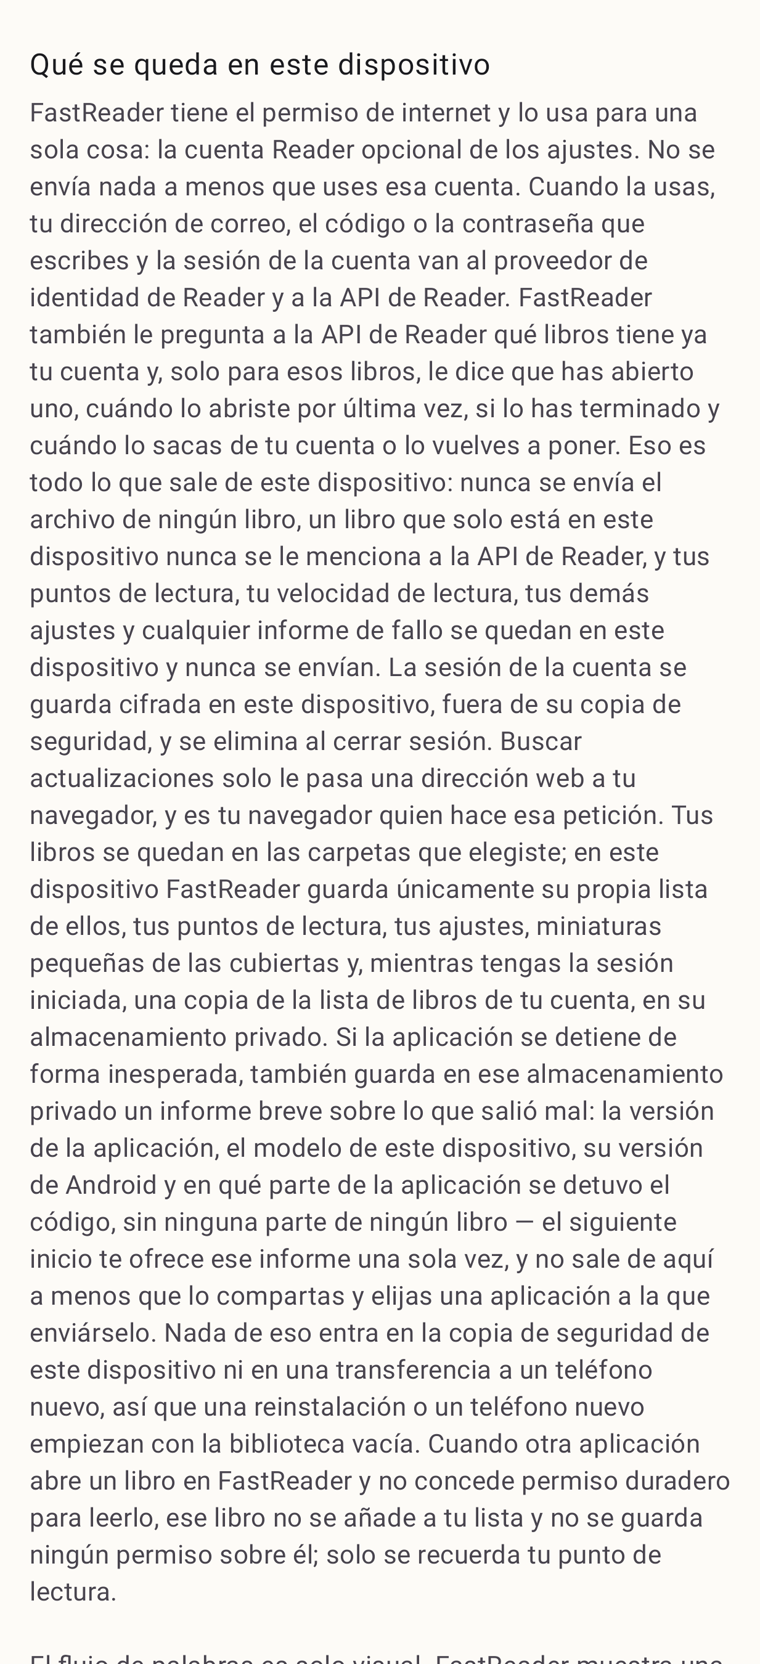
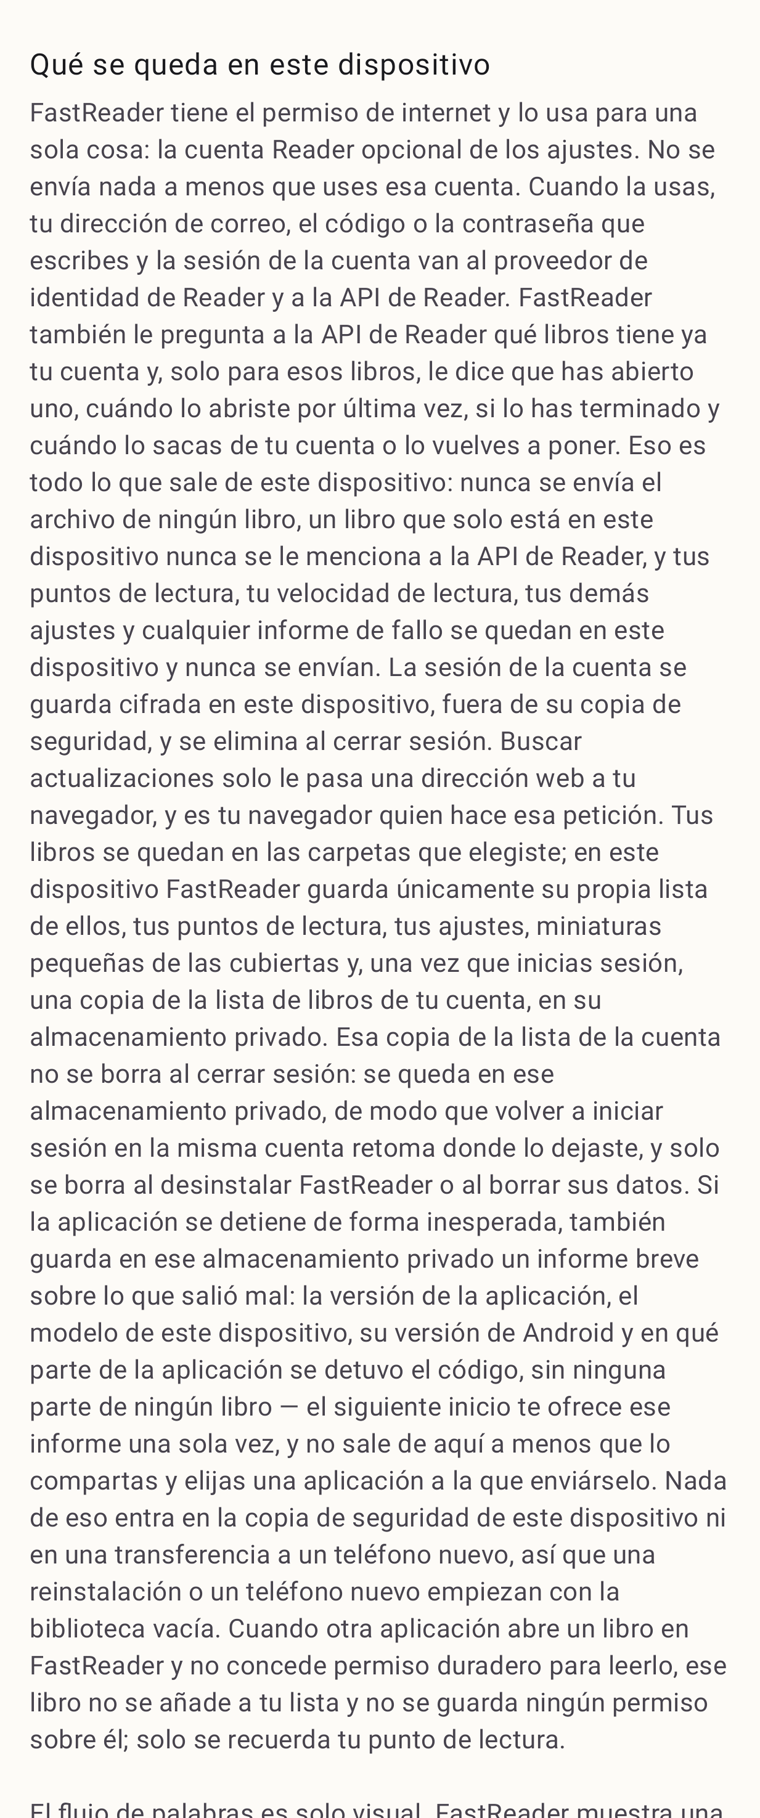
Say the account book list survives sign-out; prove row 8 locally (review R1)
Review round 1 on #127, both findings, one batch. B1 was the exact failure this
leaf exists to prevent, caught in this leaf's own text.

B1 — the statement over-claimed. It said the device keeps, "while you are
signed in", a copy of the account's book list. That is false and deliberately
so: `AccountSyncEngine.signOut` is D4 — stop reading the store, keep the file,
delete nothing — and signing in as a different user only empties the other
account's outbox (`discardOtherAccountQueues` re-saves the same document, and
the test asserts "user-1's rows are left alone"). So
`filesDir/account-library/account-<sha256>.json` survives sign-out
indefinitely. Two sentences after "the session ... is removed when you sign
out", a temporal clause there reads as a retention limit the code does not
honour.

Fixed by stating the retention rather than implying its absence, in all four
held-equal copies and in the Spanish twin by hand:

  That copy of the account's list is not deleted when you sign out: it stays in
  that private storage, so signing in to the same account again picks up where
  it left off, and only uninstalling FastReader or clearing its data removes it.

The behaviour is unchanged — D4 stands. `PrivacyStatementTest` now asserts the
over-claiming phrase is absent as a third retired promise, so it cannot come
back, and its KDoc records why. The claim list is sixteen.

B2 — row 8 cited `PENDING OWNER TEST — step 3`, which asks the owner to read a
[…]

Changed region(s): [[0.0303, 0.0312, 0.9684, 1.0], [0.8474, 0.9688, 0.8776, 1.0], [0.7566, 0.9688, 0.7868, 1.0]]

diff --git a/app/src/test/java/com/cedagova/fastreader/app/PrivacyStatementTest.kt b/app/src/test/java/com/cedagova/fastreader/app/PrivacyStatementTest.kt
@@ -66,12 +66,22 @@ class PrivacyStatementTest {
      * never leave. The import, download and position sentences belong to later
      * increments and are deliberately not here yet.
      *
+     * A third phrase is asserted absent although it never shipped: "while you
+     * are signed in, a copy of your account's own book list". The first draft
+     * of #115 said that, and it was false — `AccountSyncEngine.signOut` keeps
+     * the account document (D4: "stop reading the store, keep the file, delete
+     * nothing"), and signing in as a different user clears only that account's
+     * outbox. Sitting two sentences after "the session … is removed when you
+     * sign out", a temporal clause there reads as a retention limit the code
+     * does not honour. The shipped sentence states the retention instead, and
+     * this assertion keeps the over-claim from coming back.
+     *
      * Nothing holds the Spanish copy of the statement to this one — lint fails
      * a *missing* translation, not a stale one — so a change here is a hand
      * edit of `values-es/strings.xml` too.
      */
     @Test
-    fun `the statement still makes the fourteen claims the build backs up`() {
+    fun `the statement still makes the sixteen claims the build backs up`() {
         val statement = oneLine(shownInApp())
 
         listOf(
@@ -85,7 +95,9 @@ class PrivacyStatementTest {
             "kept encrypted on this device, outside its backup, and is removed when you sign out",
             "hands a web address to your browser",
             "your books stay in the folders you chose",
-            "a copy of your account's own book list, in its private storage",
+            "once you sign in, a copy of your account's own book list, in its private storage",
+            "that copy of the account's list is not deleted when you sign out",
+            "only uninstalling FastReader or clearing its data removes it",
             "is included in this device's backup or in a transfer to a new phone",
             "it goes nowhere unless you share it and pick an app to send it to",
             "not added to your list and no permission to it is kept",
@@ -99,7 +111,12 @@ class PrivacyStatementTest {
             // Retired with #113 and #114: the books half is no longer true.
             "your books, your reading positions, your settings and any crash report " +
                 "stay on this device and are never sent",
-            // The narrower half of the same retired sentence, in case only its
+            // Never shipped, and must never ship: the account book list is NOT
+            // removed on sign-out (AccountSyncEngine.signOut keeps the file, D4),
+            // so a temporal clause here would over-claim privacy — the exact
+            // failure AD-27 forbids.
+            "while you are signed in, a copy of your account's own book list",
+            // The narrower half of the retired v1.6.0 sentence, in case only its
             // opening is trimmed rather than the whole clause rewritten.
             "and nothing else does",
         ).forEach { retired ->

diff --git a/docs/privacy-statement.md b/docs/privacy-statement.md
@@ -60,11 +60,14 @@ its backup, and is removed when you sign out. Check for updates only hands
 a web address to your browser, and your browser makes that request. Your
 books stay in the folders you chose; on this device FastReader keeps only
 its own list of them, your reading positions, your settings, small cover
-thumbnails and, while you are signed in, a copy of your account's own book
-list, in its private storage. If the app stops unexpectedly it also keeps
-one short report about what went wrong in that private storage: the app
-version, this device's model, its Android version and where in the code it
-stopped, with no part of any book in it — the next launch offers that
+thumbnails and, once you sign in, a copy of your account's own book list,
+in its private storage. That copy of the account's list is not deleted when
+you sign out: it stays in that private storage, so signing in to the same
+account again picks up where it left off, and only uninstalling FastReader
+or clearing its data removes it. If the app stops unexpectedly it also
+keeps one short report about what went wrong in that private storage: the
+app version, this device's model, its Android version and where in the code
+it stopped, with no part of any book in it — the next launch offers that
 report to you once, and it goes nowhere unless you share it and pick an app
 to send it to. None of that is included in this device's backup or in a
 transfer to a new phone, so a reinstall or a new phone starts with an empty
@@ -76,7 +79,7 @@ permission to it is kept; only your place in it is remembered.
 ## What each sentence rests on
 
 Every sentence is either a manifest declaration or something the app is
-observed doing. Nothing here is an intention. The eleven rows are the eleven
+observed doing. Nothing here is an intention. The twelve rows are the twelve
 sentences of the block above, in order.
 
 | # | Sentence | What makes it true | The test or evidence that checks it |
@@ -88,10 +91,11 @@ sentences of the block above, in order.
 | 5 | That is all that leaves this device: no book file is ever sent, a book that is only on this device is never named to the Reader API, and your reading positions, your reading speed, your other settings and any crash report stay on this device and are never sent. | No code path uploads a book: `:reader-library` has no upload operation and no multipart body, and increment 001 adds no import or download. The `upsert` payload carries `status` and `last_opened_at` and nothing else — no title, no author, no checksum, no path. No `profile`, `settings`, `note` or `bookmark` envelope is constructed anywhere, and no `reading_progress` mutation is sent: positions are read *from* the stream into the account document and never written back. The crash store is untouched by the account code. | `AccountSyncEngineTest.nothing but library_item mutations is ever produced` (resource type, whole batch); `ReaderLibraryOperations` declares the five operations exhaustively and `ReaderLibraryContractTest` checks each against the pinned document; `reader-library/contracts/PINNED.md` records the identity. Reviewing the real backend records is deferred: `PENDING OWNER TEST — step 13 of the owner list` for "only `library_item` mutations from the `reader-android` client" and `PENDING OWNER TEST — step 14 of the owner list` for the recorded field shapes. |
 | 6 | The account session is kept encrypted on this device, outside its backup, and is removed when you sign out. | The library stores the session as one file, `no_backup/reader-auth/session.bin`, encrypted with an AES-256-GCM key generated in the Android Keystore; the file is under the platform's no-backup directory, and FastReader's nine-domain extraction rules exclude it a second time. Sign-out clears the store before telling the provider, so a provider failure never leaves the device signed in (`reader-auth/CONTRACT.md`). | `FileSessionStoreTest` pins the file, the encryption and the clear; `ReaderAccountManifestTest` pins the rules. Emulator, signed in: the `docs/evidence/46/` backup procedure moves zero bytes on both transports, the session survives `am force-stop` and `adb reboot`, and after sign-out `no_backup/reader-auth/` holds no `session.bin` (`docs/evidence/100/`). |
 | 7 | Check for updates only hands a web address to your browser, and your browser makes that request. | `SettingsRoute` starts `ACTION_VIEW` for `https://github.com/cedagova/fastReader/releases`; the app makes no request of its own for it — the only HTTP clients in the app are the two libraries', and nothing in Settings calls either for this. | Emulator: tapping the button starts `ACTION_VIEW` for that URL and the browser takes the foreground from FastReader (`docs/evidence/46/update-handoff-browser-phone-mid-api36.png`). |
-| 8 | Your books stay in the folders you chose; on this device FastReader keeps only its own list of them, your reading positions, your settings, small cover thumbnails and, while you are signed in, a copy of your account's own book list, in its private storage. | Books are read through SAF document URIs and no code path copies one: `CatalogIngestor` streams for metadata and a cover, and the reader streams the text. `LibraryGraph` wires `filesDir/catalog/catalog.json` (books, positions and settings) and `filesDir/covers/`, and `SharedPreferencesThemeMirror` keeps a one-key theme copy in `shared_prefs/launch-theme.xml`. Since #113 there is one more private file: `filesDir/account-library/account-<sha256 of the user id>.json`, the account's rows, cursor and outbox — one per account, named after the digest of the id so the id itself is not legible in a directory listing. The account session is the separate encrypted file named two rows up, under `no_backup/`. No database, nothing on external storage. | `AccountLibraryStoreTest` pins the file name, the atomic write and the damaged-file quarantine; `FileAccountLibraryStores` is the only writer. Emulator, `run-as com.cedagova.fastreader ls -R .` after adding two books and reading one: `files/catalog/catalog.json`, two files in `files/covers/`, `shared_prefs/launch-theme.xml`, and the platform's own zero-byte `files/profileInstalled` marker; signed out there is no `files/account-library/` at all (`docs/evidence/106/leaf-114-device-run-phone-mid-api36.txt`). The signed-in directory listing is `PENDING OWNER TEST — step 3 of the owner list`. |
-| 9 | If the app stops unexpectedly it keeps one short report in that private storage; the next launch offers it once, and it goes nowhere unless you share it. | `CrashReportStore` writes a single `files/crash/report.txt` under `filesDir` — one slot, overwritten rather than appended — and the handler re-throws instead of swallowing. `CrashShare` builds an `ACTION_SEND` chooser only from the reader's own tap on "Share report"; sharing and declining both delete the file, and the offer is shown once either way. `CrashReport` redacts throwable messages, so the text carries the app version, device model, Android version and stack frames and no book title, path or file name (REQ-207, AD-14). | Emulator, induced crash whose message deliberately carried a book title, an author and a full path: the offer appeared once (`docs/evidence/54/01-offer-on-next-launch-phone-mid-api36.png`), the share sheet's own preview held none of them (`docs/evidence/54/shared-report-phone-mid-api36.txt`), and after either answer `run-as com.cedagova.fastreader ls files/crash` was empty with no dialog on the next cold launch (`docs/evidence/54/03-not-offered-again-after-declining-phone-mid-api36.png`). |
-| 10 | None of that is included in this device's backup or in a transfer to a new phone, so a reinstall or a new phone starts with an empty library. | `android:allowBackup="false"` plus `res/xml/data_extraction_rules.xml`, which excludes every domain — `root`, `file`, `database`, `sharedpref`, `external` and their `device_*` twins — from both `<cloud-backup>` and `<device-transfer>` (AD-11). The account document is under `filesDir`, so the `file` and `device_file` exclusions cover it with everything else; the session is under `no_backup/` and excluded twice. The attribute alone is not enough: Android 12+ device transfer ignores it. | `ReaderAccountManifestTest` pins all nine domains. Emulator, on the same seeded library: the cloud transport answers "Backup is not allowed" and the device-transfer transport takes zero bytes, where the pre-change build handed both 9,728 bytes containing `catalog.json` and the covers (`docs/evidence/46/backup-run-phone-mid-api36.txt`). Reinstall: the empty-library state with a fresh `catalog.json` whose `books` array is empty (`docs/evidence/46/reinstall-empty-library-phone-mid-api36.png`). |
-| 11 | When another app opens a book and does not give lasting permission, the book is not added to your list and no permission to it is kept; only your place in it is remembered. | `ExternalOpenController.resolveIdentity` adds a library row only when `takePersistableUriPermission` succeeds, and releases a grant that persisted but produced no row; the reading position is stored under the book's whole-file SHA-256, like every other position (AD-9), so it survives without anything else about the book surviving. Such a book has no account counterpart either, so it sends nothing (row 4). | Emulator, three grants from this package at one moment: the two books handed over by the Files app are `persistable=0x0 persisted=0x0`, the same file taken through FastReader's own picker is `persistable=0x3 persisted=0x1` (`docs/evidence/44/uri-grants-phone-mid-api36.txt`). After reading a handed-over book to 33 % and closing it, `catalog.json` holds `"books":[]` and one `readingStates` entry, and the library screen is empty (`docs/evidence/44/library-has-no-row-after-closing-phone-mid-api36.png`). |
+| 8 | Your books stay in the folders you chose; on this device FastReader keeps only its own list of them, your reading positions, your settings, small cover thumbnails and, once you sign in, a copy of your account's own book list, in its private storage. | Books are read through SAF document URIs and no code path copies one: `CatalogIngestor` streams for metadata and a cover, and the reader streams the text. `LibraryGraph` wires `filesDir/catalog/catalog.json` (books, positions and settings) and `filesDir/covers/`, and `SharedPreferencesThemeMirror` keeps a one-key theme copy in `shared_prefs/launch-theme.xml`. Since #113 there is one more private file: `filesDir/account-library/account-<sha256 of the user id>.json`, the account's rows, cursor and outbox — one per account, named after the digest of the id so the id itself is not legible in a directory listing. The account session is the separate encrypted file named two rows up, under `no_backup/`. No database, nothing on external storage. | `AccountLibraryStoreTest` pins that file: its name (`account-` + the SHA-256 of the user id + `.json`), the atomic write through a `.tmp` sibling, and the quarantine of a damaged document — and `FileAccountLibraryStores` is the only writer, so the location and naming are proven here without a device. Emulator, `run-as com.cedagova.fastreader ls -R .` after adding two books and reading one: `files/catalog/catalog.json`, two files in `files/covers/`, `shared_prefs/launch-theme.xml`, and the platform's own zero-byte `files/profileInstalled` marker (`docs/evidence/106/leaf-114-device-run-phone-mid-api36.txt`). |
+| 9 | That copy of the account's list is not deleted when you sign out: it stays in that private storage, so signing in to the same account again picks up where it left off, and only uninstalling FastReader or clearing its data removes it. | This is D4, and it is deliberate. `AccountSyncEngine.signOut` stops reading the store and **keeps the file** — the queue is held for the next sign-in to the same account — so the rows and cursor survive sign-out indefinitely. Signing in as a *different* user does not clear it either: `discardOtherAccountQueues` empties the other account's `outbox` and re-saves the same document, leaving its book list alone. Nothing in the app deletes `filesDir/account-library/`; only uninstalling or clearing the app's data does, which is the platform's own behaviour for `filesDir`. | `AccountSyncEngineTest.signing out keeps the store and takes the account rows off the shelf` asserts `sign-out deletes nothing` on the file itself and that the document still holds the account's books; `a different account starts empty and discards the previous account's held queue` asserts the other account's outbox is emptied *and* that "user-1's rows are left alone". The sentence states exactly that retention rather than implying its absence — the first draft of this statement said "while you are signed in", which the code does not honour, and `PrivacyStatementTest` now asserts that phrase is absent. |
+| 10 | If the app stops unexpectedly it keeps one short report in that private storage; the next launch offers it once, and it goes nowhere unless you share it. | `CrashReportStore` writes a single `files/crash/report.txt` under `filesDir` — one slot, overwritten rather than appended — and the handler re-throws instead of swallowing. `CrashShare` builds an `ACTION_SEND` chooser only from the reader's own tap on "Share report"; sharing and declining both delete the file, and the offer is shown once either way. `CrashReport` redacts throwable messages, so the text carries the app version, device model, Android version and stack frames and no book title, path or file name (REQ-207, AD-14). | Emulator, induced crash whose message deliberately carried a book title, an author and a full path: the offer appeared once (`docs/evidence/54/01-offer-on-next-launch-phone-mid-api36.png`), the share sheet's own preview held none of them (`docs/evidence/54/shared-report-phone-mid-api36.txt`), and after either answer `run-as com.cedagova.fastreader ls files/crash` was empty with no dialog on the next cold launch (`docs/evidence/54/03-not-offered-again-after-declining-phone-mid-api36.png`). |
+| 11 | None of that is included in this device's backup or in a transfer to a new phone, so a reinstall or a new phone starts with an empty library. | `android:allowBackup="false"` plus `res/xml/data_extraction_rules.xml`, which excludes every domain — `root`, `file`, `database`, `sharedpref`, `external` and their `device_*` twins — from both `<cloud-backup>` and `<device-transfer>` (AD-11). The account document is under `filesDir`, so the `file` and `device_file` exclusions cover it with everything else; the session is under `no_backup/` and excluded twice. The attribute alone is not enough: Android 12+ device transfer ignores it. | `ReaderAccountManifestTest` pins all nine domains. Emulator, on the same seeded library: the cloud transport answers "Backup is not allowed" and the device-transfer transport takes zero bytes, where the pre-change build handed both 9,728 bytes containing `catalog.json` and the covers (`docs/evidence/46/backup-run-phone-mid-api36.txt`). Reinstall: the empty-library state with a fresh `catalog.json` whose `books` array is empty (`docs/evidence/46/reinstall-empty-library-phone-mid-api36.png`). |
+| 12 | When another app opens a book and does not give lasting permission, the book is not added to your list and no permission to it is kept; only your place in it is remembered. | `ExternalOpenController.resolveIdentity` adds a library row only when `takePersistableUriPermission` succeeds, and releases a grant that persisted but produced no row; the reading position is stored under the book's whole-file SHA-256, like every other position (AD-9), so it survives without anything else about the book surviving. Such a book has no account counterpart either, so it sends nothing (row 4). | Emulator, three grants from this package at one moment: the two books handed over by the Files app are `persistable=0x0 persisted=0x0`, the same file taken through FastReader's own picker is `persistable=0x3 persisted=0x1` (`docs/evidence/44/uri-grants-phone-mid-api36.txt`). After reading a handed-over book to 33 % and closing it, `catalog.json` holds `"books":[]` and one `readingStates` entry, and the library screen is empty (`docs/evidence/44/library-has-no-row-after-closing-phone-mid-api36.png`). |
 
 ## The pinned Reader API contract
 

diff --git a/docs/release-notes/v1.7.0.md b/docs/release-notes/v1.7.0.md
@@ -35,6 +35,10 @@ in each of them and your settings are kept.
   statement now says exactly that and no more — no book file is sent, a book
   only on this phone is never named to the Reader API, and your reading
   positions, reading speed, other settings and crash reports still never leave.
+  It also says the one new thing FastReader keeps *here*: a copy of your
+  account's book list, in the app's private storage — and that signing out does
+  **not** delete it, so signing back in to the same account picks up where it
+  left off. Only uninstalling FastReader or clearing its data removes it.
 - **Signed out, nothing changed.** With no Reader account signed in, the shelf,
   Settings and the reader are the 1.6.0 app, and the account library sends
   nothing at all.
@@ -73,11 +77,14 @@ its backup, and is removed when you sign out. Check for updates only hands
 a web address to your browser, and your browser makes that request. Your
 books stay in the folders you chose; on this device FastReader keeps only
 its own list of them, your reading positions, your settings, small cover
-thumbnails and, while you are signed in, a copy of your account's own book
-list, in its private storage. If the app stops unexpectedly it also keeps
-one short report about what went wrong in that private storage: the app
-version, this device's model, its Android version and where in the code it
-stopped, with no part of any book in it — the next launch offers that
+thumbnails and, once you sign in, a copy of your account's own book list,
+in its private storage. That copy of the account's list is not deleted when
+you sign out: it stays in that private storage, so signing in to the same
+account again picks up where it left off, and only uninstalling FastReader
+or clearing its data removes it. If the app stops unexpectedly it also
+keeps one short report about what went wrong in that private storage: the
+app version, this device's model, its Android version and where in the code
+it stopped, with no part of any book in it — the next launch offers that
 report to you once, and it goes nowhere unless you share it and pick an app
 to send it to. None of that is included in this device's backup or in a
 transfer to a new phone, so a reinstall or a new phone starts with an empty

diff --git a/README.md b/README.md
@@ -100,11 +100,14 @@ its backup, and is removed when you sign out. Check for updates only hands
 a web address to your browser, and your browser makes that request. Your
 books stay in the folders you chose; on this device FastReader keeps only
 its own list of them, your reading positions, your settings, small cover
-thumbnails and, while you are signed in, a copy of your account's own book
-list, in its private storage. If the app stops unexpectedly it also keeps
-one short report about what went wrong in that private storage: the app
-version, this device's model, its Android version and where in the code it
-stopped, with no part of any book in it — the next launch offers that
+thumbnails and, once you sign in, a copy of your account's own book list,
+in its private storage. That copy of the account's list is not deleted when
+you sign out: it stays in that private storage, so signing in to the same
+account again picks up where it left off, and only uninstalling FastReader
+or clearing its data removes it. If the app stops unexpectedly it also
+keeps one short report about what went wrong in that private storage: the
+app version, this device's model, its Android version and where in the code
+it stopped, with no part of any book in it — the next launch offers that
 report to you once, and it goes nowhere unless you share it and pick an app
 to send it to. None of that is included in this device's backup or in a
 transfer to a new phone, so a reinstall or a new phone starts with an empty
